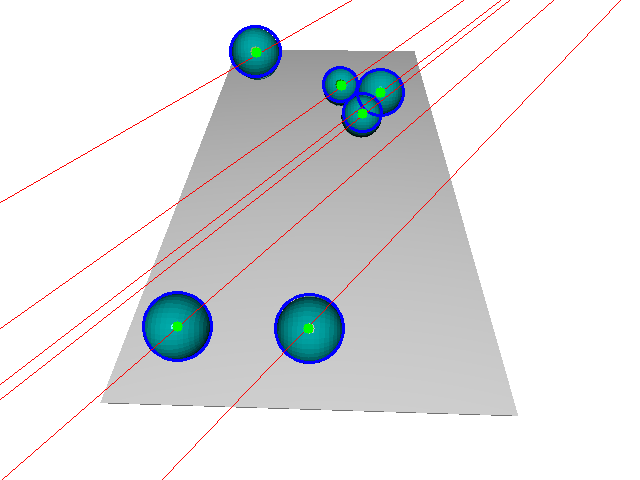
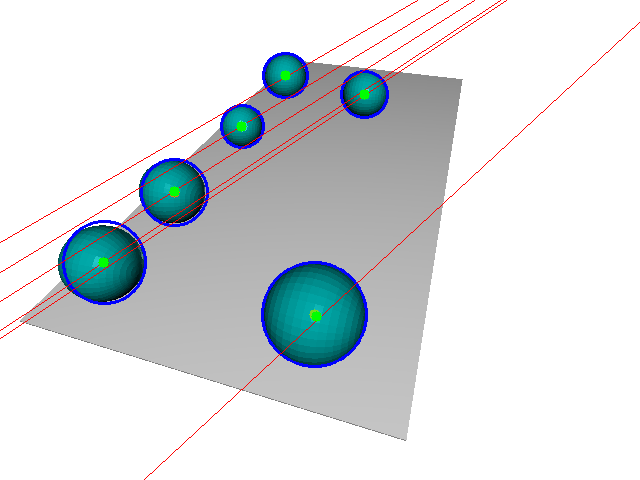
Visualise estimated and ground truth centres and compute errors

diff --git a/CWII2425-v2.py b/CWII2425-v2.py
@@ -422,7 +422,7 @@ if __name__ == '__main__':
 
     show_on_image = True
 
-    points = []
+    estimated_centres = []
 
     for match in circle_matches:
         circle1 = match[0]
@@ -456,11 +456,11 @@ if __name__ == '__main__':
         P_hat = np.append(P_hat, [1]) # convert into homogenous coordinate
         point = np.matmul(H0_cw, P_hat)[:-1]
 
-        points.append(point)
+        estimated_centres.append(point)
     
     if show_on_image:
         # Project 3D points onto reference VC and draw points onto image
-        for point in points:
+        for point in estimated_centres:
             P_L = np.matmul(H0_wc, np.append(point, [1]))[:-1]
             Z = P_L[2]
             p_L = f * (P_L / Z)
@@ -475,7 +475,7 @@ if __name__ == '__main__':
             cv2.imwrite('view0.png', image)
         
         # Project 3D points onto viewing VC and draw points onto image
-        for point in points:
+        for point in estimated_centres:
             P_R = np.matmul(H1_wc, np.append(point, [1]))[:-1]
             Z = P_R[2]
             p_R = f * (P_R / Z)
@@ -497,6 +497,49 @@ if __name__ == '__main__':
     '''
     ###################################
 
+    ground_truth_centres = np.array(GT_cents)[:,:3].tolist()
+
+    # Ground truth sphere centre point cloud (red)
+    pcd_GT_cents = o3d.geometry.PointCloud()
+    pcd_GT_cents.points = o3d.utility.Vector3dVector(ground_truth_centres)
+    pcd_GT_cents.paint_uniform_color([1., 0., 0.])
+
+    # Estimated sphere centre point cloud (green)
+    pcd_est_cents = o3d.geometry.PointCloud()
+    pcd_est_cents.points = o3d.utility.Vector3dVector(np.array(estimated_centres))
+    pcd_est_cents.paint_uniform_color([0., 1., 0.])
+
+    # Visualise both ground truth and estimated sphere centres
+    vis = o3d.visualization.Visualizer()
+    vis.create_window(width=640, height=480, left=0, top=0)
+    for m in [obj_meshes[0], pcd_GT_cents, pcd_est_cents]:
+        vis.add_geometry(m)
+    vis.run()
+    vis.destroy_window()
+
+    # Compute the errors (distances between estimated and ground truth centres)
+    distance_sum = 0
+    for est_centre in estimated_centres:
+        # The closest ground truth centre is considered to correspond with the estimated centre
+        smallest_distance = float('inf')
+        closest_gt = None
+        for gt_centre in ground_truth_centres:
+            distance = math.sqrt(np.sum(np.square(est_centre - gt_centre)))
+            if distance < smallest_distance:
+                smallest_distance = distance
+                closest_gt = gt_centre
+        
+        distance_sum += smallest_distance
+        
+        # Remove corresponding ground truth centre so it is not considered by any other estimated centres
+        ground_truth_centres.remove(closest_gt)
+
+        # Show the error
+        print('Error (distance from ground truth) of estimated centre', est_centre, 'is:', smallest_distance)
+    
+    # Compute and show the mean error
+    mean_distance = distance_sum / len(estimated_centres)
+    print('Mean error (distance from ground truth):', mean_distance)
 
     ###################################
     '''
